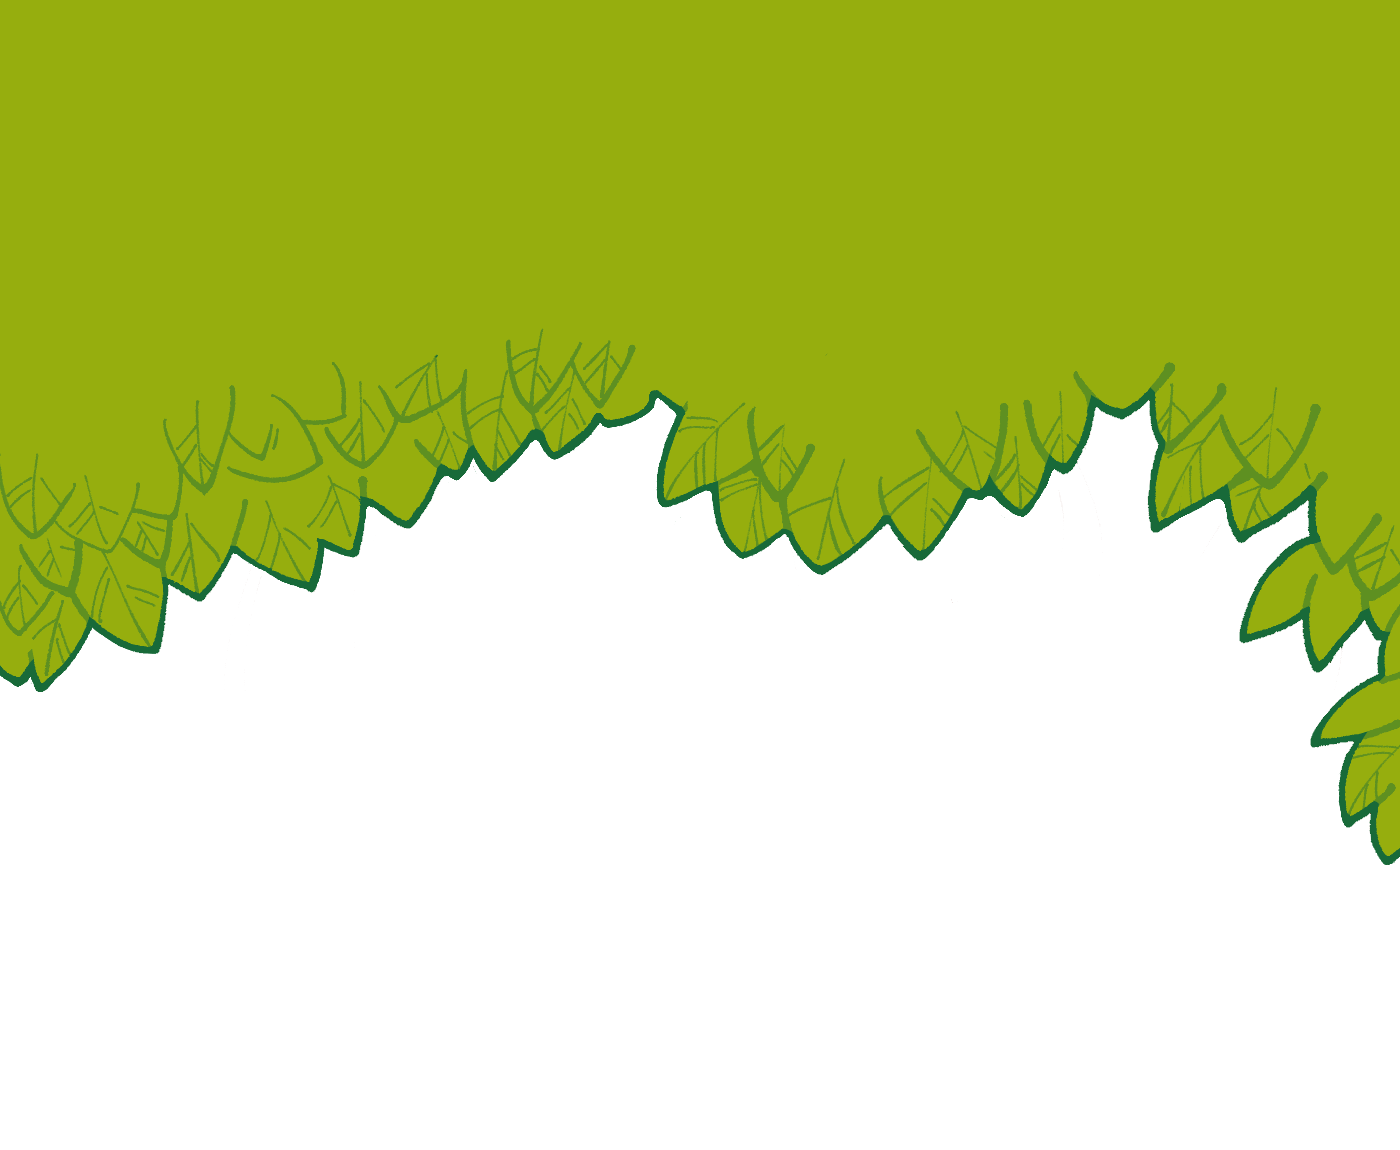
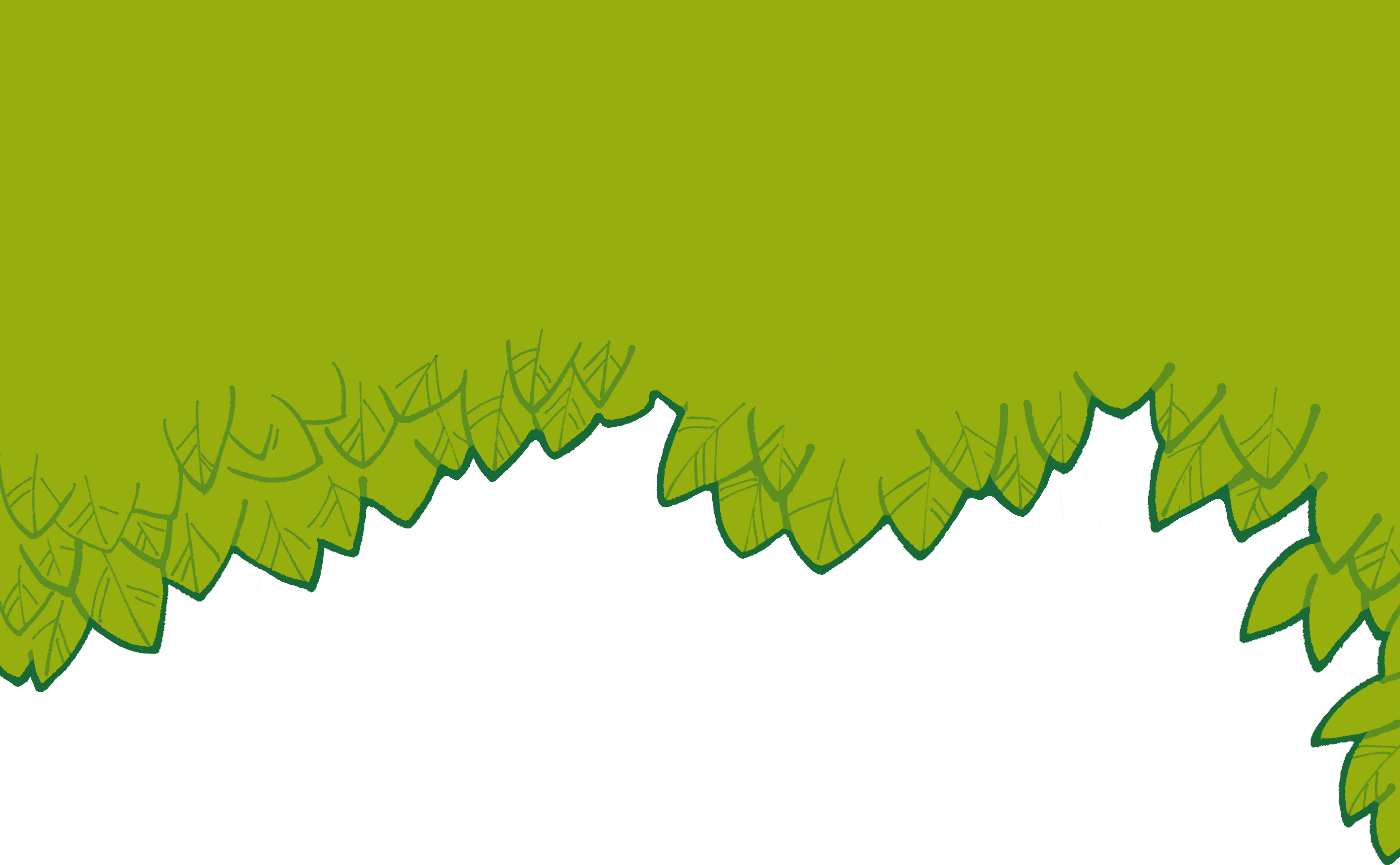
commit to laptop

Changed region(s): [[0.0, 0.2809, 1.0, 1.0]]

diff --git a/catalogue.html b/catalogue.html
@@ -21,29 +21,33 @@
   </head>
   <body>
     <nav></nav>
-    <header>Section Name</header>
+    <header class="finger-paint-regular">Section Name</header>
     <main>
-      <h1>Bundles</h1>
-      <section id="bundles">
+      <h1 class="finger-paint-regular">Bundles</h1>
+      <section id="bundles" class="roboto-slab-regular">
         <article class="bundle_container">
+          <a href="product_page.html">
           <img src="assets/download.png" alt="" />
           <section class="bundle_txt_container">
             <p>Name of group</p>
             <p>000 SEK</p>
           </section>
+          </a>
         </article>
         <article class="bundle_container">
+          <a href="product_page.html">
           <img src="assets/download.png" alt="" />
           <section class="bundle_txt_container">
             <p>Name of group</p>
             <p>000 SEK</p>
           </section>
+          </a>
         </article>
       </section>
-      <h1>Character roster</h1>
-      <section id="solo_characters">
+      <h1 class="finger-paint-regular">Character roster</h1>
+      <section id="solo_characters" class="roboto-slab-regular">
         <a class="character_container" href="#">
-          <div class="charcter_img_container">
+          <div class="character_img_container">
             <img src="assets/download.png" alt="" />
           </div>
           <section class="character_txt_container">
@@ -52,7 +56,7 @@
           </section>
         </a>
         <a class="character_container" href="#">
-          <div class="charcter_img_container">
+          <div class="character_img_container">
             <img src="assets/download.png" alt="" />
           </div>
           <section class="character_txt_container">
@@ -82,7 +86,8 @@
           </section>
         </a>
       </section>
+      <footer></footer>
     </main>
-    <footer></footer>
+    
   </body>
 </html>

diff --git a/css/general_style.css b/css/general_style.css
@@ -25,24 +25,38 @@
   margin: 0;
 }
 
+a{
+  text-decoration: none;
+  color: inherit;
+}
+
+*, *::before, *::after {
+  box-sizing: border-box;
+}
+
 body {
   display: flex;
   flex-direction: column;
   background-color: var(--pal2_col5);
   min-height: 100vh;
-  justify-content: space-between;
+  position: relative;
 }
 
 main {
-   gap: 2.5em;
+  flex-grow: 1;
+  gap: 2.5em;
   z-index: 1;
-      padding:2em 23%;
+  padding: 2em 23%;
   display: flex;
   flex-direction: column;
   align-items: center;
-  background-image: url('../assets/base_mid_w1400.png');
+  background-image: url("../assets/base_mid_straight_w1400.png");
   background-repeat: repeat-y;
-  background-size: cover;
+  background-size: 100% auto;
+  background-position: top center;
+  position: relative;
+  padding-bottom: 120px;
+  box-sizing: border-box;
 }
 
 .finger-paint-regular {
@@ -52,9 +66,16 @@ main {
   font-style: normal;
 }
 
-.roboto-slab-regular{
-  font-family:"Roboto Slab", serif;
+.roboto-slab-regular {
+  font-family: "Roboto Slab", serif;
   font-optical-sizing: auto;
   font-weight: 400;
   font-style: normal;
+}
+nav {
+  background-image: url(../assets/base_top_w1400.png);
+  height: 200px;
+  background-position: bottom center;
+  background-repeat: no-repeat;
+  background-size: cover;
 }

diff --git a/css/footer_nav.css b/css/footer_nav.css
@@ -1,16 +1,22 @@
 .footer_holder {
-  height:200px;
-  background-image: url(../assets/base_footer_w14000.png);
+  position: absolute;
+  bottom: 0;
+  left: 0;
+  width: 100%;
+  box-sizing: border-box;
+  height: 200px;
+  background-image: url(../assets/base_footer_straight_w14000.png);
   background-repeat: no-repeat;
-  background-size: cover;
+  background-size: 100% auto;
+  background-position: top center;
   z-index: 10;
-  padding: 2em 20%;
+  padding: 4em 22%;
   display: grid;
   grid-template-columns: repeat(2, 1fr);
   gap: 2em;
 }
 
-.footer_holder article{
+.footer_holder article {
   display: flex;
   flex-direction: column;
   gap: 5%;
@@ -20,15 +26,15 @@
   color: var(--pal1_col3);
 }
 
-@import url(general_style.css);
-
-.nav_holder{
-  height: 200px;
-  background-image: url(../assets/base_top_w1400.png);
+.nav_holder {
+  height: 30vw;
+  width: 100%;
+  background-image: url(../assets/justheader_top_w1400.png);
   background-repeat: no-repeat;
   background-size: cover;
-  background-position: bottom center;
+  /* background-position-y: center; */
   position: relative;
-  margin-bottom: -60px;
+  margin-bottom: -80px;
   z-index: 20;
+  background-position: bottom center;
 }

diff --git a/css/catalogue.css b/css/catalogue.css
@@ -22,10 +22,34 @@ h1 {
   margin: 1vh;
 }
 
+.bundle_txt_container {
+  background-image: url(../assets/big_leaf.png);
+  background-size: contain;
+  background-repeat: no-repeat;
+  z-index: 20;
+  position: relative;
+  margin-top: -2em;
+  margin-right: -2em;
+  display: flex;
+  flex-direction: column;
+  justify-content: center;
+  align-items: center;
+  padding-right: 4em;
+  height: 8em;
+}
+
+.character_img_container {
+  height: 5em;
+  background-color: var(--pal1_col1);
+  border-radius: var(--image_border_radius);
+  padding: 0.5em;
+}
+
 #solo_characters {
   display: grid;
-  grid-template-columns: repeat(auto-fill, 100px);
+  grid-template-columns: repeat(6, 100px);
   justify-content: space-between;
+  gap: 1em;
 }
 
 header {

diff --git a/product_page.html b/product_page.html
@@ -14,6 +14,8 @@
       href="https://fonts.googleapis.com/css2?family=Original+Surfer&family=Roboto+Slab:wght@100..900&family=Roboto:ital,wght@0,100..900;1,100..900&display=swap"
       rel="stylesheet"
     />
+    <link rel="stylesheet" href="css/general_style.css">
+    <link rel="stylesheet" href="css/footer_nav.css">
     <!-- planning to replace inner html of title into the name of the product -->
     <script src="js/footer_and_nav_functionality.js" defer></script>
   </head>

diff --git a/css/index_css.css b/css/index_css.css
@@ -40,8 +40,17 @@
 
 .bottomSectionContainer img {
   display: block;
-  max-width: 100%;
+  max-width: 90%;
   height: auto;
   object-fit: cover;
   border-radius: var(--image_border_radius);
+}
+
+.decor_holder{
+    position: relative;
+    z-index: 28; 
+}
+
+.decor_holder img{
+   object-fit: contain;
 }

diff --git a/index.html b/index.html
@@ -51,7 +51,10 @@
           <p></p>
         </article>
       </section>
+      <div class="decor_holder">
+        <img src="assets/bush_mid_w1400.png" alt="" />
+      </div>
+      <footer></footer>
     </main>
-    <footer></footer>
   </body>
 </html>

diff --git a/nav.html b/nav.html
@@ -1,5 +1,5 @@
 <div class="nav_holder">
-  <a href="index.html" class="logo_link"></a>
+  <a href="index.html" class="logo_link">Index</a>
   <a href="catalogue.html">Catalogue</a>
   <a href="#"></a>
   <a href="basket.html">Cart</a>
